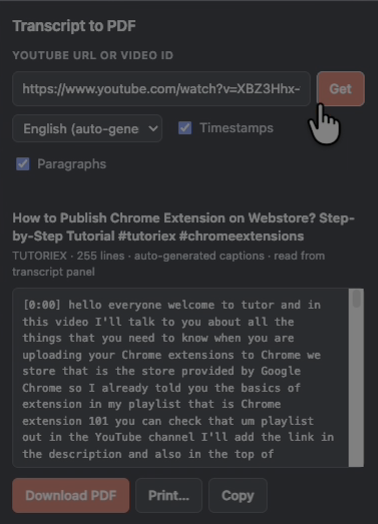
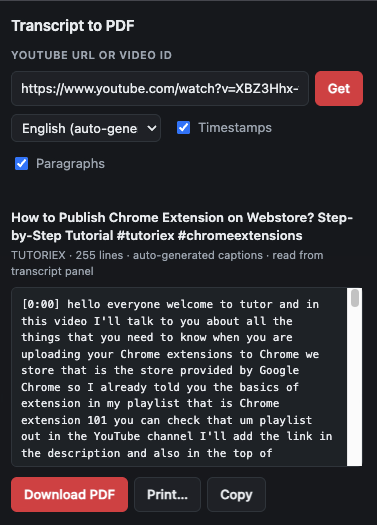
docs: recapture screenshot 1 from a clean screenshot
The previous capture came from the screen recording, which was made with a
capture overlay active: the popup's accent measured (113, 68, 59) against a
true (200, 32, 42), so the whole UI read muted. This one comes from a plain
screenshot of the same loaded state and measures (207, 64, 66) — the real
colours.

Cropped to the popup alone, as before. The full frames carry tabs, bookmarks,
a search query, and personalised recommendations, none of which belong in a
public listing.

Verified: manifest validation, 31 tests, doc index validation.

Claude-Session: https://claude.ai/code/session_01A8Q82wK2hKBHX7xwNUeMvf

diff --git a/CHROMEWEBSTORE.md b/CHROMEWEBSTORE.md
@@ -105,10 +105,9 @@ transcript text is authored sample content
 (`store-assets/sample-transcript.json`), written for this repository so the
 assets carry no third-party material.
 
-One quality nit on screenshot 1: the source recording was made with a
-screen-capture overlay active, so the popup's colours read slightly muted
-against the real UI. It is authentic, just dim. A clean re-capture of the
-loaded popup would be a small improvement; it is not a submission blocker.
+Screenshot 1 was recaptured from a clean screenshot rather than the screen
+recording, so the popup's colours match the real UI — the earlier frame was
+taken with a capture overlay active and read muted.
 
 ## Permissions Justification
 
